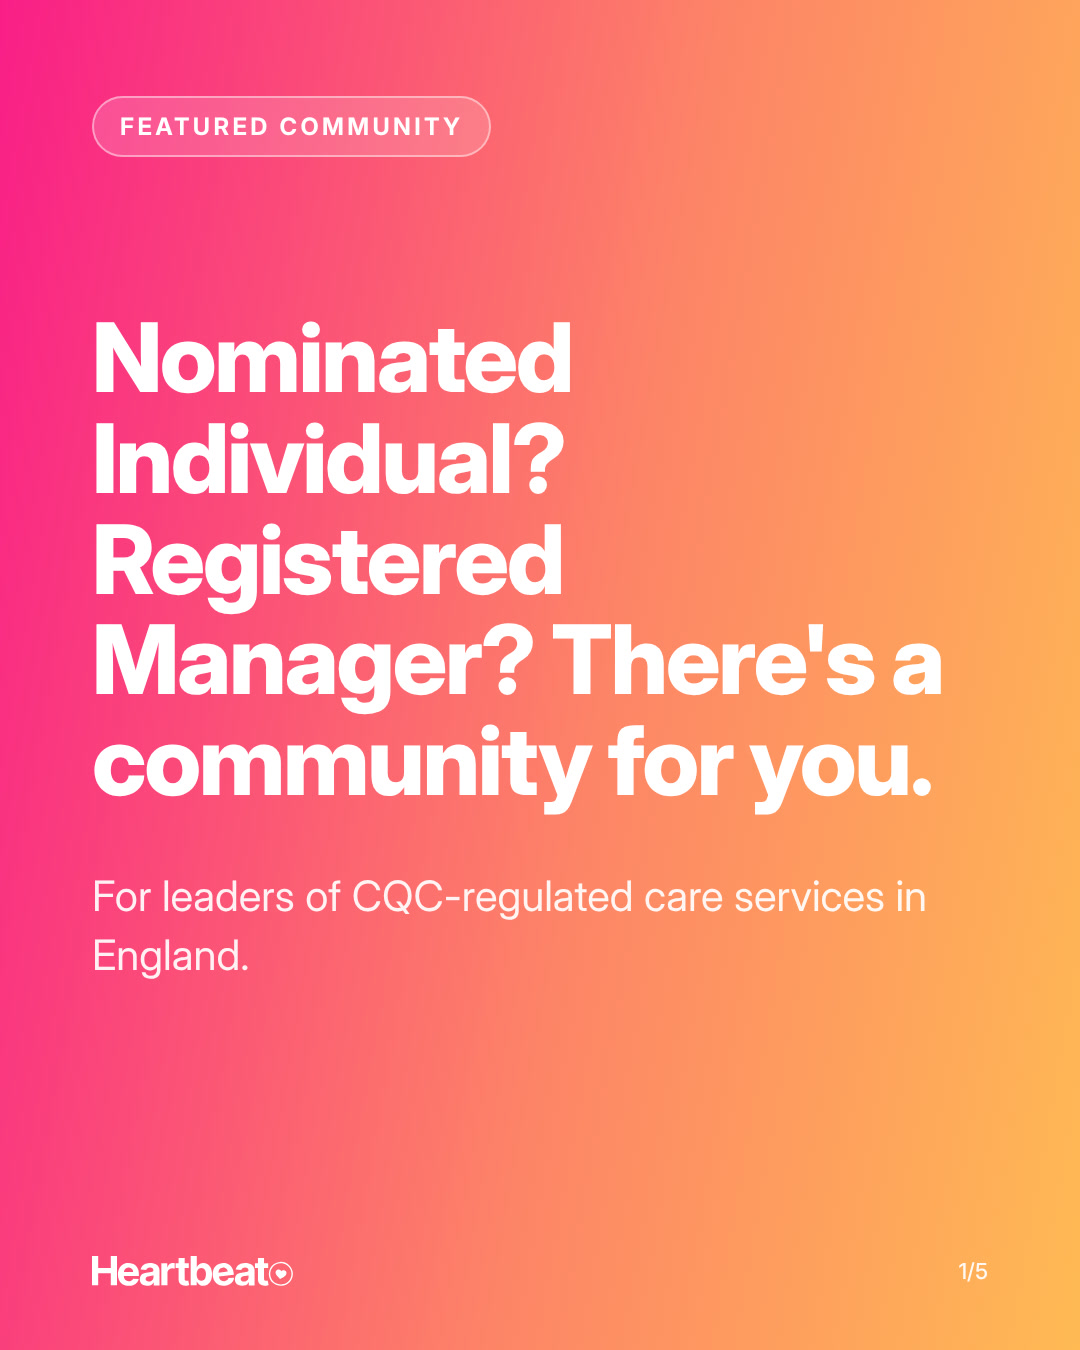
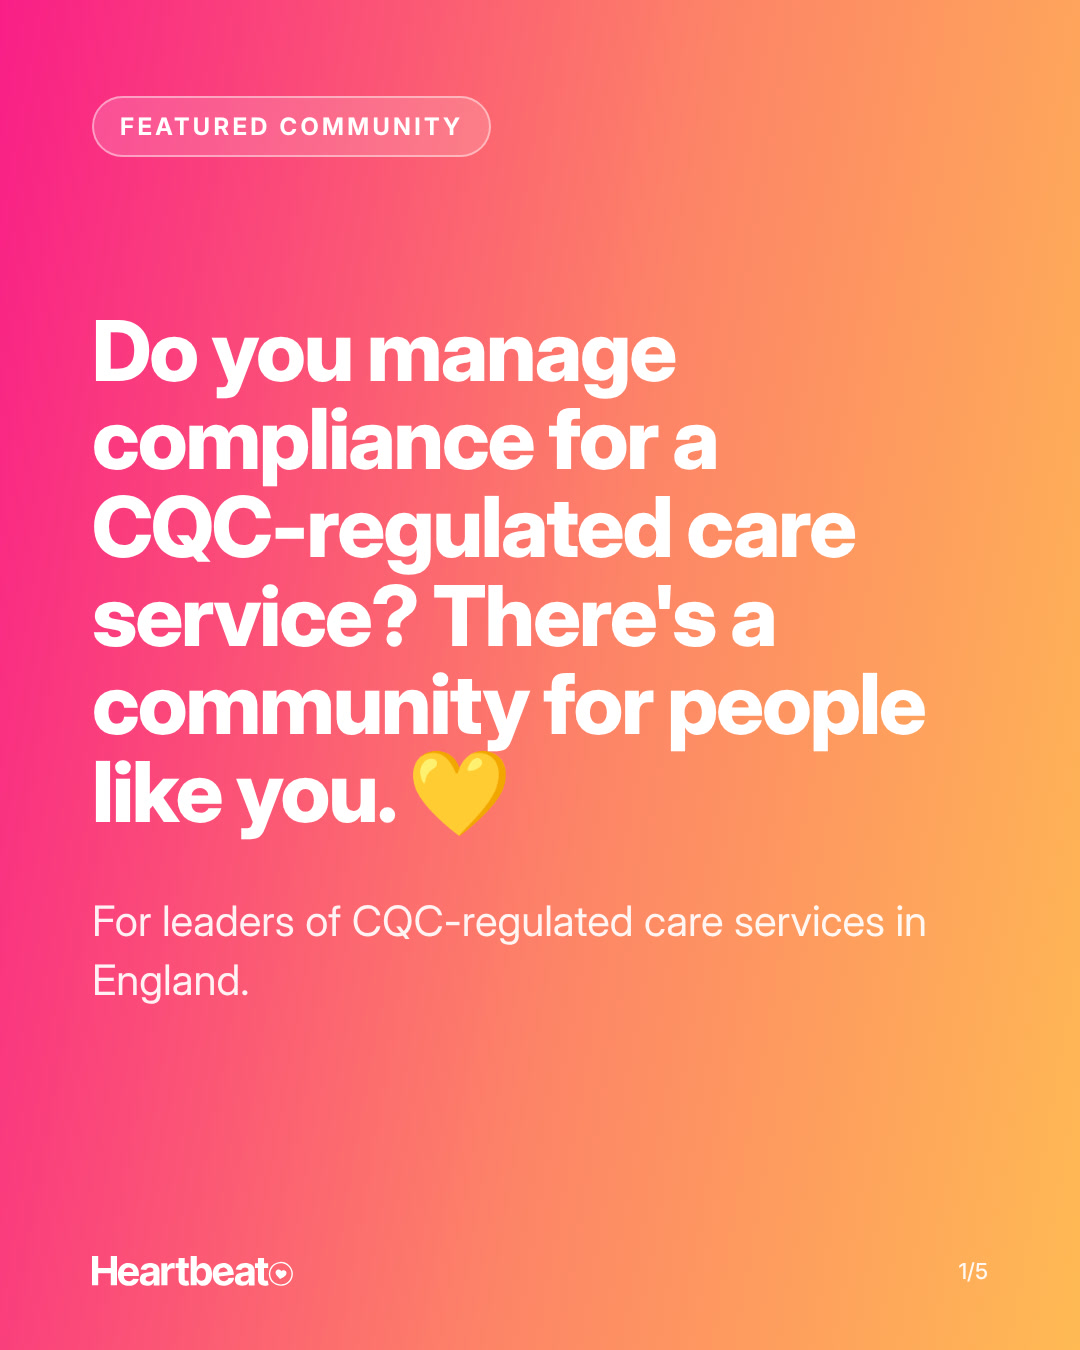
Governance hub: card 1 states the problem (Clay edit A)
Claude-Session: https://claude.ai/code/session_015dzi6A4A8wxYeMGvCtzzkM

Changed region(s): [[0.0917, 0.2178, 0.8861, 0.6222], [0.0611, 0.6533, 0.8556, 0.7467]]

diff --git a/posts/2026-11-10-governance-hub/src/slide-01.html b/posts/2026-11-10-governance-hub/src/slide-01.html
@@ -1,5 +1,5 @@
 <!doctype html><html><head><meta charset="utf-8">{{BRAND}}</head>
 <body class="dark"><div class="frame"><div class="pill">Featured community</div>
-<div class="head" style="font-size:96px;margin-top:150px">Nominated Individual? Registered Manager? <em>There's a community for you.</em></div>
+<div class="head" style="font-size:84px;margin-top:150px">Do you manage compliance for a <span style="white-space:nowrap">CQC-regulated</span> care service? <em>There's a community for people like you. 💛</em></div>
 <div class="sub" style="font-size:42px;margin-top:56px">For leaders of CQC-regulated care services in England.</div></div>
 <div class="foot"><img src="{{ROOT}}/brand/heartbeat-wordmark-white.svg"><span>1/5</span></div></body></html>
